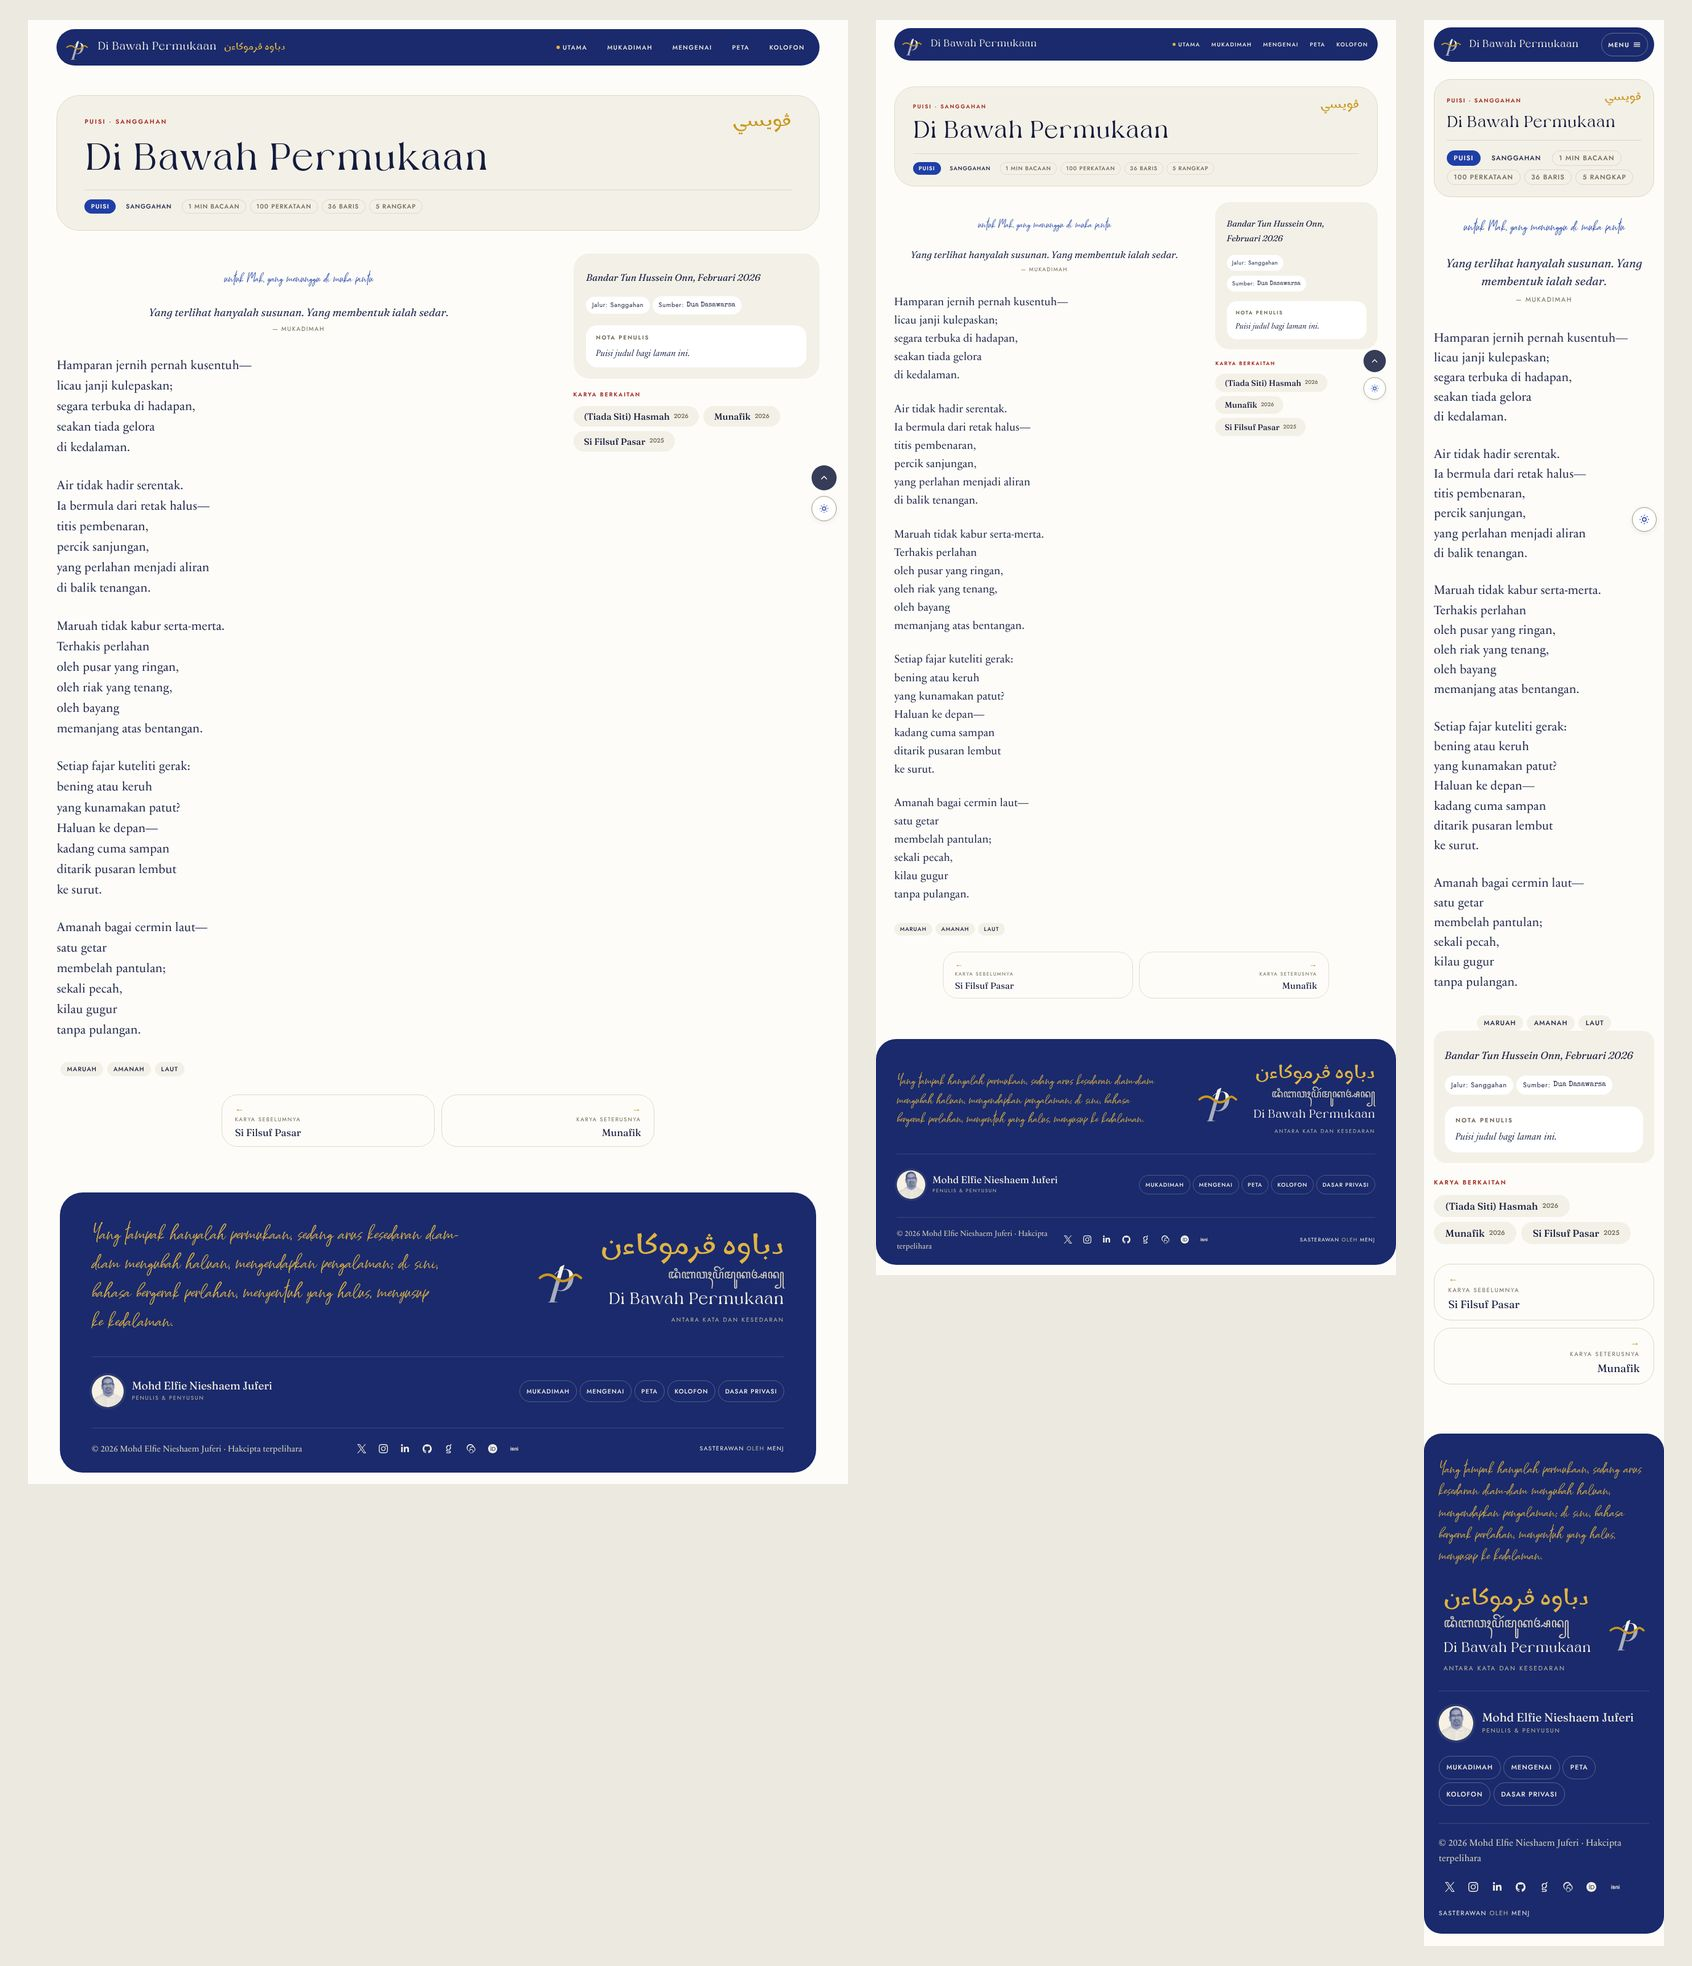
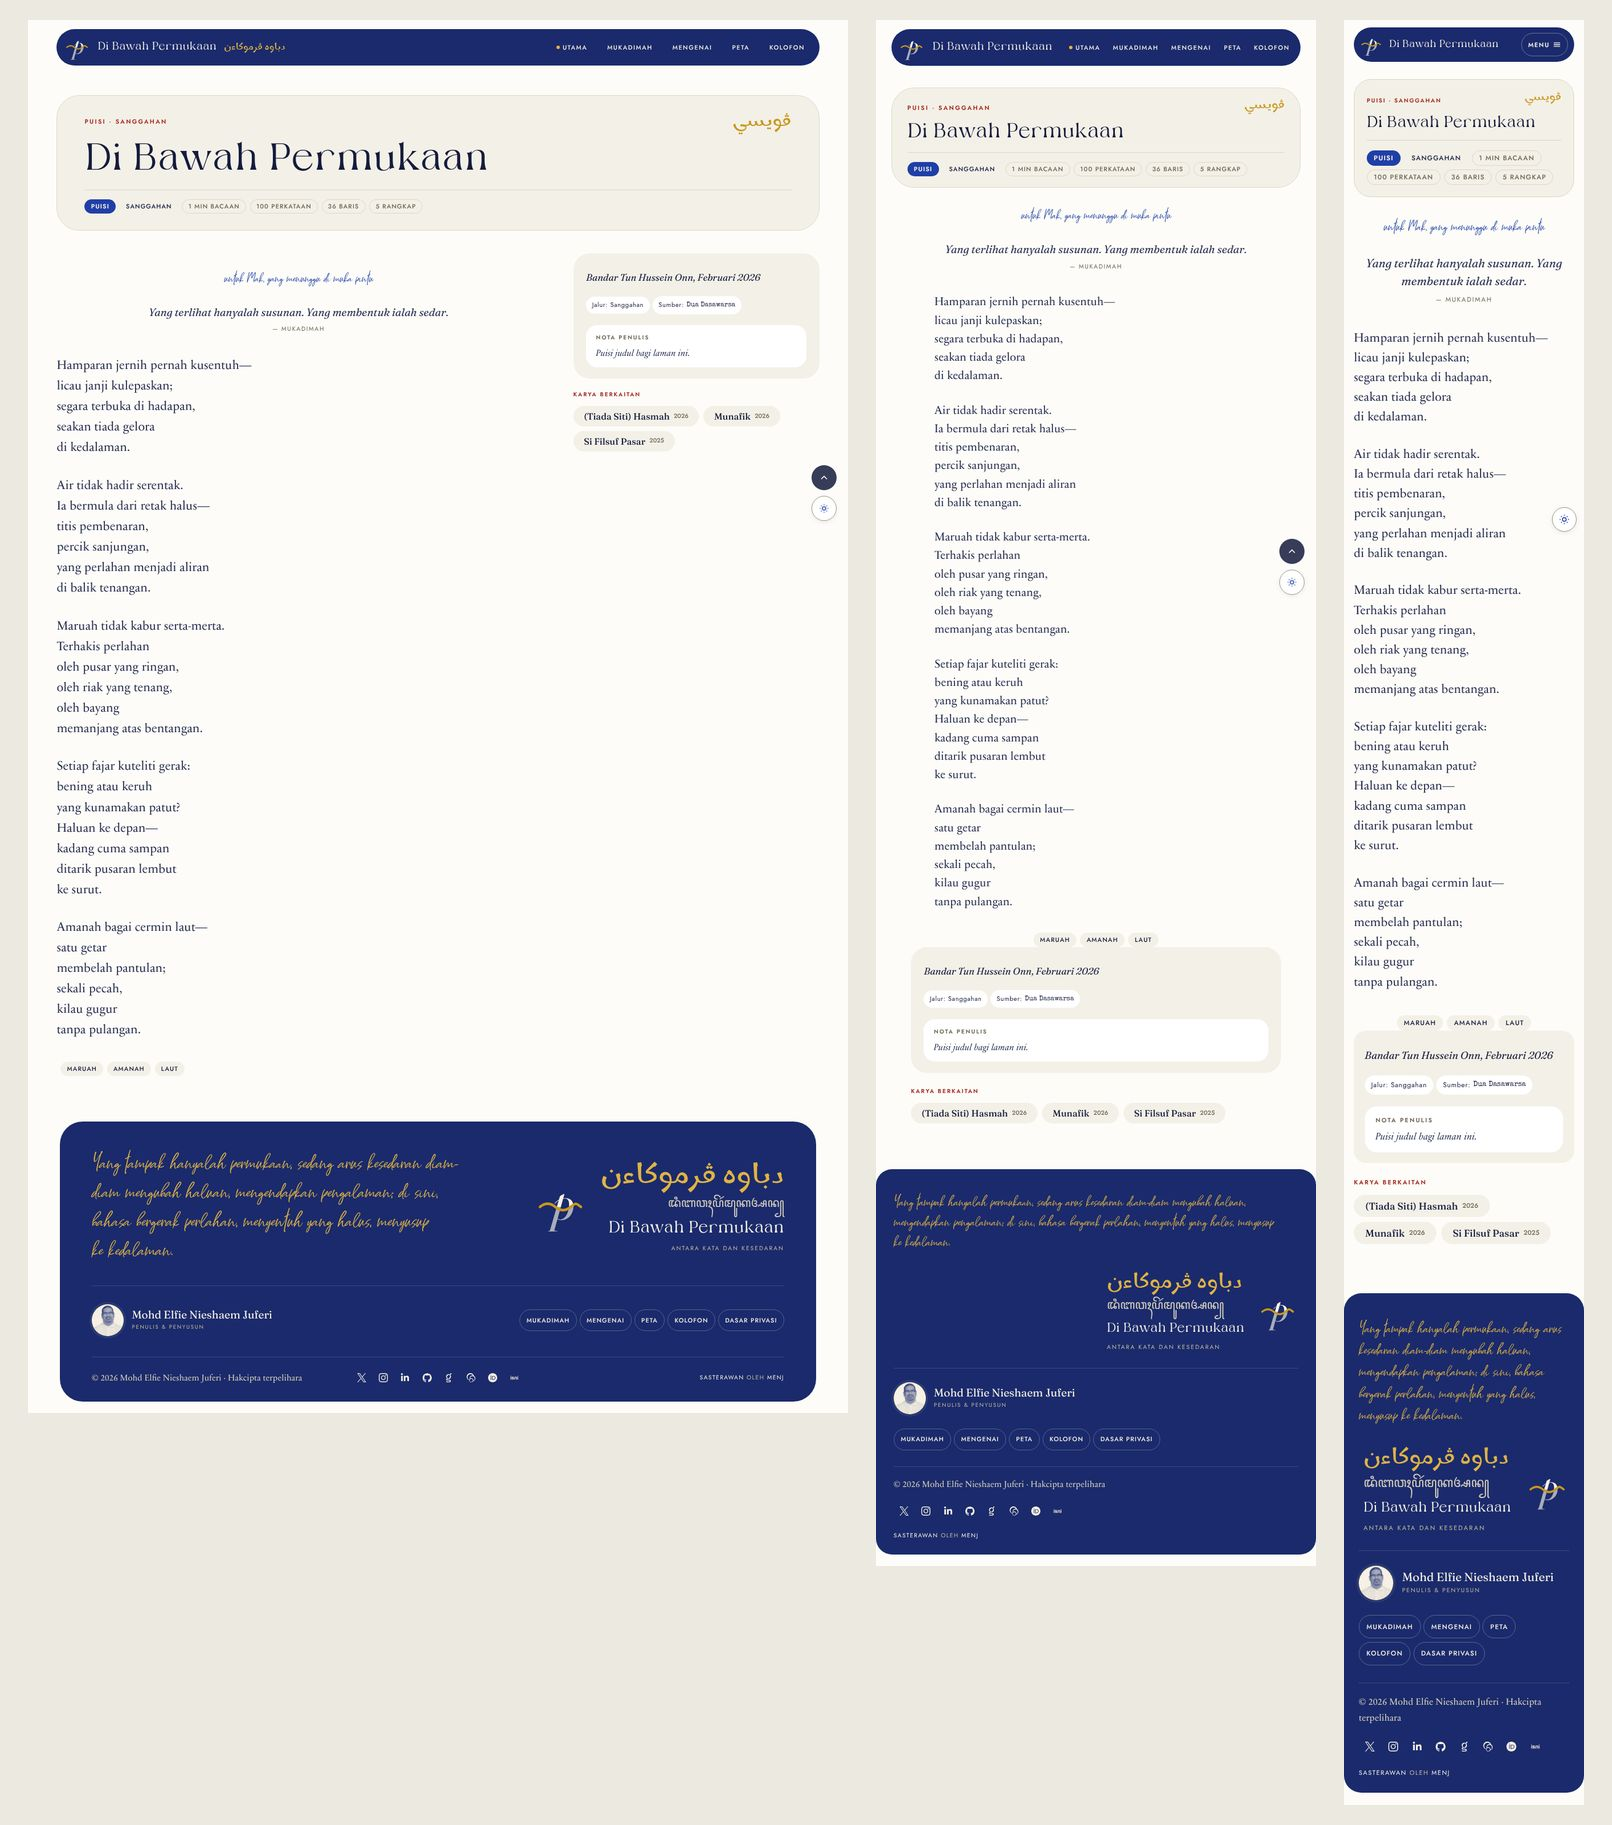
Remove previous/next work navigation
- Drop the nav from single works, its settings toggle, styles and the arrow-key shortcut

Claude-Session: https://claude.ai/code/session_01Er8Hpy67qX5wHknT6MnoT1

Changed region(s): [[0.031, 0.0, 0.9926, 0.9995], [0.3412, 0.1249, 0.4653, 0.2499]]

diff --git a/assets/css/frontend.css b/assets/css/frontend.css
@@ -742,7 +742,6 @@ body.bwp-toc-masonry .bwp-toc__item { width: 49%; margin-bottom: .75rem; }
 .bwp-share,
 .bwp-colophon,
 .bwp-related,
-.bwp-work-nav,
 .bwp-comments,
 .bwp-page-links,
 .bwp-foreword__content,
@@ -899,26 +898,6 @@ body.bwp-toc-masonry .bwp-toc__item { width: 49%; margin-bottom: .75rem; }
 .bwp-related__year { font-family: var(--bwp-font-ui); font-size: .66rem; color: var(--bwp-muted); }
 .bwp-related__item a:hover .bwp-related__year { color: inherit; opacity: .8; }
 
-/* previous / next → pill cards */
-.bwp-work-nav {
-    display: grid; grid-template-columns: repeat(2, minmax(0, 1fr)); gap: .75rem;
-    margin-top: 2rem;
-}
-.bwp-work-nav__link {
-    display: flex; flex-direction: column; gap: .25rem;
-    padding: .9rem 1.4rem;
-    border: 1px solid var(--bwp-border); border-radius: var(--bwp-radius-lg);
-    color: var(--bwp-text); transition: background .15s, border-color .15s;
-}
-.bwp-work-nav__link:hover { background: var(--bwp-bg-subtle); border-color: transparent; color: var(--bwp-text); }
-.bwp-work-nav__link--next { text-align: right; align-items: flex-end; grid-column: 2; }
-.bwp-work-nav__arrow { color: var(--bwp-accent); font-size: 1rem; line-height: 1; }
-.bwp-work-nav__label { font-family: var(--bwp-font-ui); font-size: .6rem; letter-spacing: .18em; text-transform: uppercase; color: var(--bwp-muted); }
-.bwp-work-nav__title { font-family: var(--bwp-font-display); font-size: 1.1rem; line-height: 1.2; }
-@media (max-width: 36em) {
-    .bwp-work-nav { grid-template-columns: 1fr; }
-    .bwp-work-nav__link--next { grid-column: 1; }
-}
 
 /* pages (page.php, foreword, colophon page) */
 .bwp-edit-link { text-align: center; margin-top: 2rem; }
@@ -1349,7 +1328,7 @@ html.bwp-night .bwp-badge--karmina, body.bwp-night .bwp-badge--karmina { color: 
 @media print {
     body { background: #fff; color: #000; font-size: 11pt; }
     .bwp-nav, .bwp-nav-toggle, .bwp-footer-nav, .bwp-social, .bwp-share, .bwp-night-toggle, .bwp-back-to-top,
-    .bwp-progress, .bwp-comments, .bwp-work-nav, .bwp-related, .bwp-jalur { display: none !important; }
+    .bwp-progress, .bwp-comments, .bwp-related, .bwp-jalur { display: none !important; }
     .bwp-page-wrap { max-width: none; padding: 0; animation: none; }
     .bwp-book-title__jawi { display: none; }
     .bwp-work__title { font-size: 24pt; text-align: left; }

diff --git a/assets/js/frontend.js b/assets/js/frontend.js
@@ -79,20 +79,6 @@
             var tag = ( e.target || e.srcElement ).tagName;
             if ( tag === 'INPUT' || tag === 'TEXTAREA' || tag === 'SELECT' ) return;
 
-            // ← → — navigate between posts (prev / next work).
-            var link = null;
-            if ( e.key === 'ArrowLeft'  || e.keyCode === 37 ) {
-                link = document.querySelector( '.bwp-work-nav__link--prev' );
-            } else if ( e.key === 'ArrowRight' || e.keyCode === 39 ) {
-                link = document.querySelector( '.bwp-work-nav__link--next' );
-            }
-
-            if ( link ) {
-                e.preventDefault();
-                window.location.href = link.href;
-                return;
-            }
-
             // ↑ ↓ — navigate between stanzas within the current work.
             var isDown = e.key === 'ArrowDown' || e.keyCode === 40;
             var isUp   = e.key === 'ArrowUp'   || e.keyCode === 38;

diff --git a/inc/admin/settings.php b/inc/admin/settings.php
@@ -34,7 +34,6 @@ function book_wp_register_settings() {
         'book_wp_show_copyright'    => 'book_wp_cb',
         'book_wp_toc_grouping'      => 'sanitize_text_field',
         'book_wp_show_badges'       => 'book_wp_cb',
-        'book_wp_show_nav'          => 'book_wp_cb',
         'book_wp_archive_layout'    => 'sanitize_text_field',
         'book_wp_archive_pagination'=> 'sanitize_text_field',
         'book_wp_toc_layout'        => 'sanitize_text_field',
@@ -166,7 +165,6 @@ function book_wp_handle_tab_save() {
             'book_wp_show_copyright'      => 'book_wp_cb',
             'book_wp_toc_grouping'        => 'sanitize_text_field',
             'book_wp_show_badges'         => 'book_wp_cb',
-            'book_wp_show_nav'            => 'book_wp_cb',
             'book_wp_archive_layout'      => 'sanitize_text_field',
             'book_wp_archive_pagination'  => 'sanitize_text_field',
             'book_wp_toc_layout'          => 'sanitize_text_field',
@@ -561,7 +559,6 @@ function bwp_tab_general() {
         </div>
 
         <?php bwp_toggle( 'book_wp_show_badges', __( 'Literary Form Badges', 'book-wp' ), __( 'Show coloured form badges beside titles in the TOC.', 'book-wp' ) ); ?>
-        <?php bwp_toggle( 'book_wp_show_nav', __( 'Previous / Next Navigation', 'book-wp' ), __( 'Show navigation links between works on single pages.', 'book-wp' ), '1' ); ?>
 
         <?php
         $toc_layout = get_option( 'book_wp_toc_layout',     'list' );

diff --git a/single.php b/single.php
@@ -102,21 +102,6 @@
         <?php endif; ?>
         </div><!-- .bwp-work__layout -->
 
-        <?php
-        $bwp_nav_output = '';
-        if ( '1' === get_option( 'book_wp_show_nav', '1' ) ) {
-            $bwp_nav_output = book_wp_work_navigation();
-            echo $bwp_nav_output; // phpcs:ignore
-        }
-        // When no nav renders (disabled or no adjacent posts), suppress the
-        // large top margin on the comments section via a body class hook.
-        if ( ! $bwp_nav_output ) {
-            add_filter( 'body_class', function( $classes ) {
-                $classes[] = 'bwp-no-work-nav';
-                return $classes;
-            } );
-        }
-        ?>
 
     </article>
 

diff --git a/docs/changelog.md b/docs/changelog.md
@@ -18,7 +18,8 @@
   404: kicker and Jawi seal at the head, Kagnue title, chips or description
   beneath a hairline. Kagnue carries all h1/h2; Fraunces keeps italics,
   datelines and list titles. The floating strand blurb under the header is
-  retired. Rounded ink-tile drop cap, colophon and previous/next pill cards.
+  retired. Rounded ink-tile drop cap and colophon card; the previous/next work
+  navigation and its setting are removed.
 - Night mode and the Night scheme now share one Malam palette; Cream and Dusk
   re-ink correctly at clock-night and under the reader toggle.
 - Per-form stylesheets no longer set page width or title treatment; they
